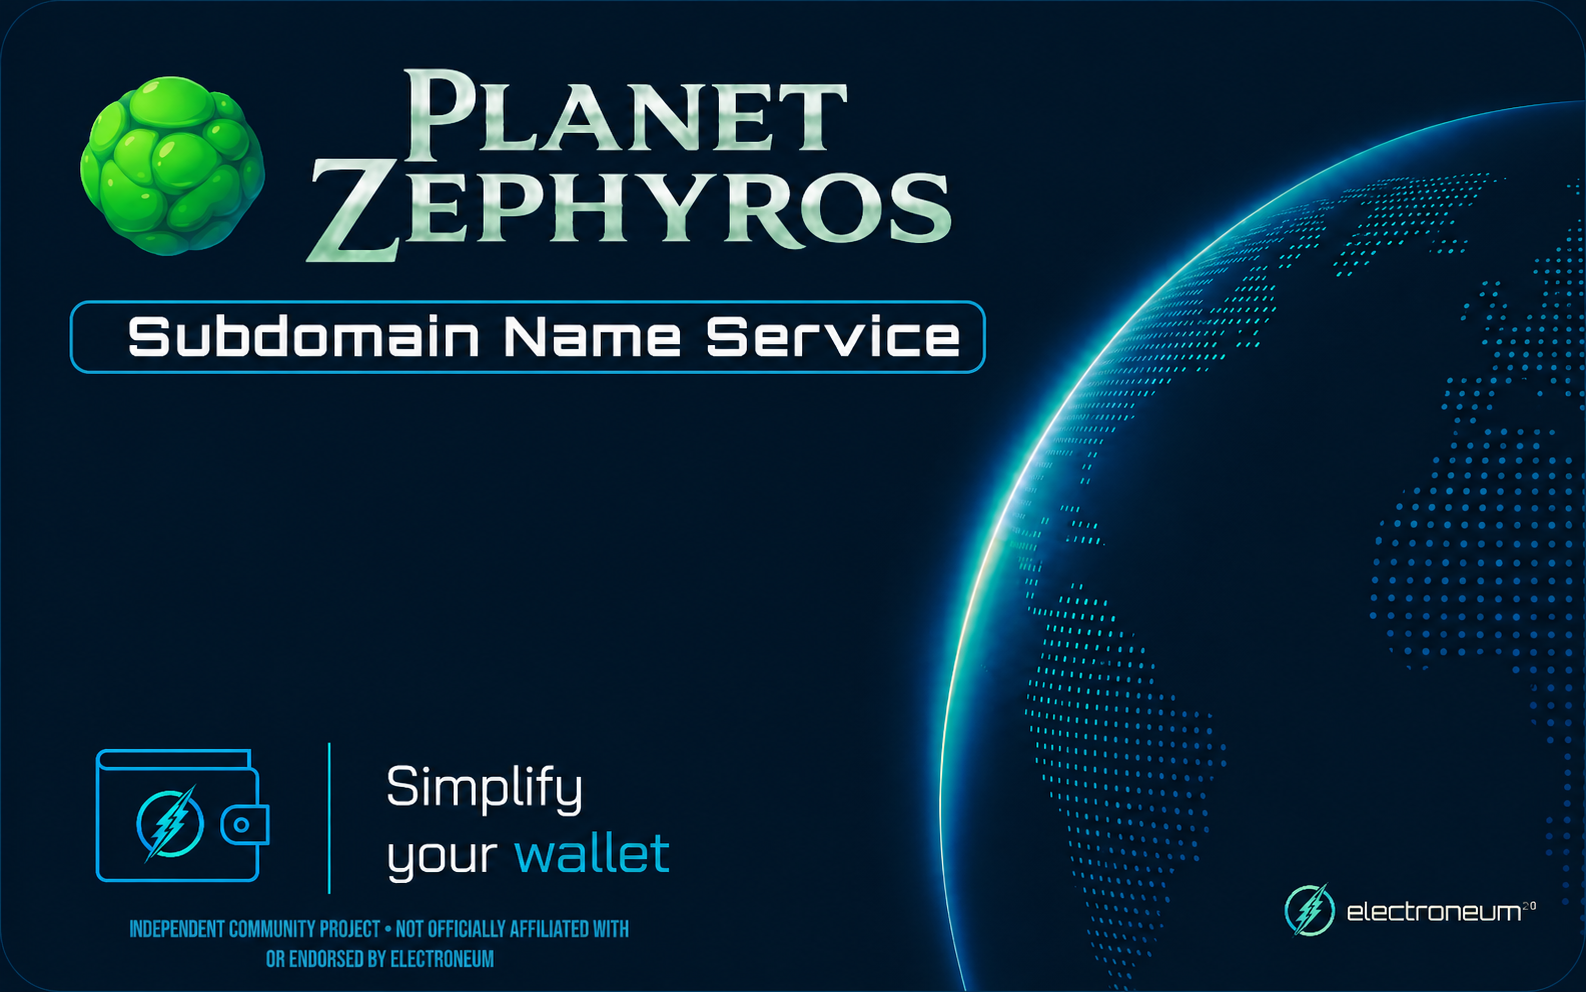
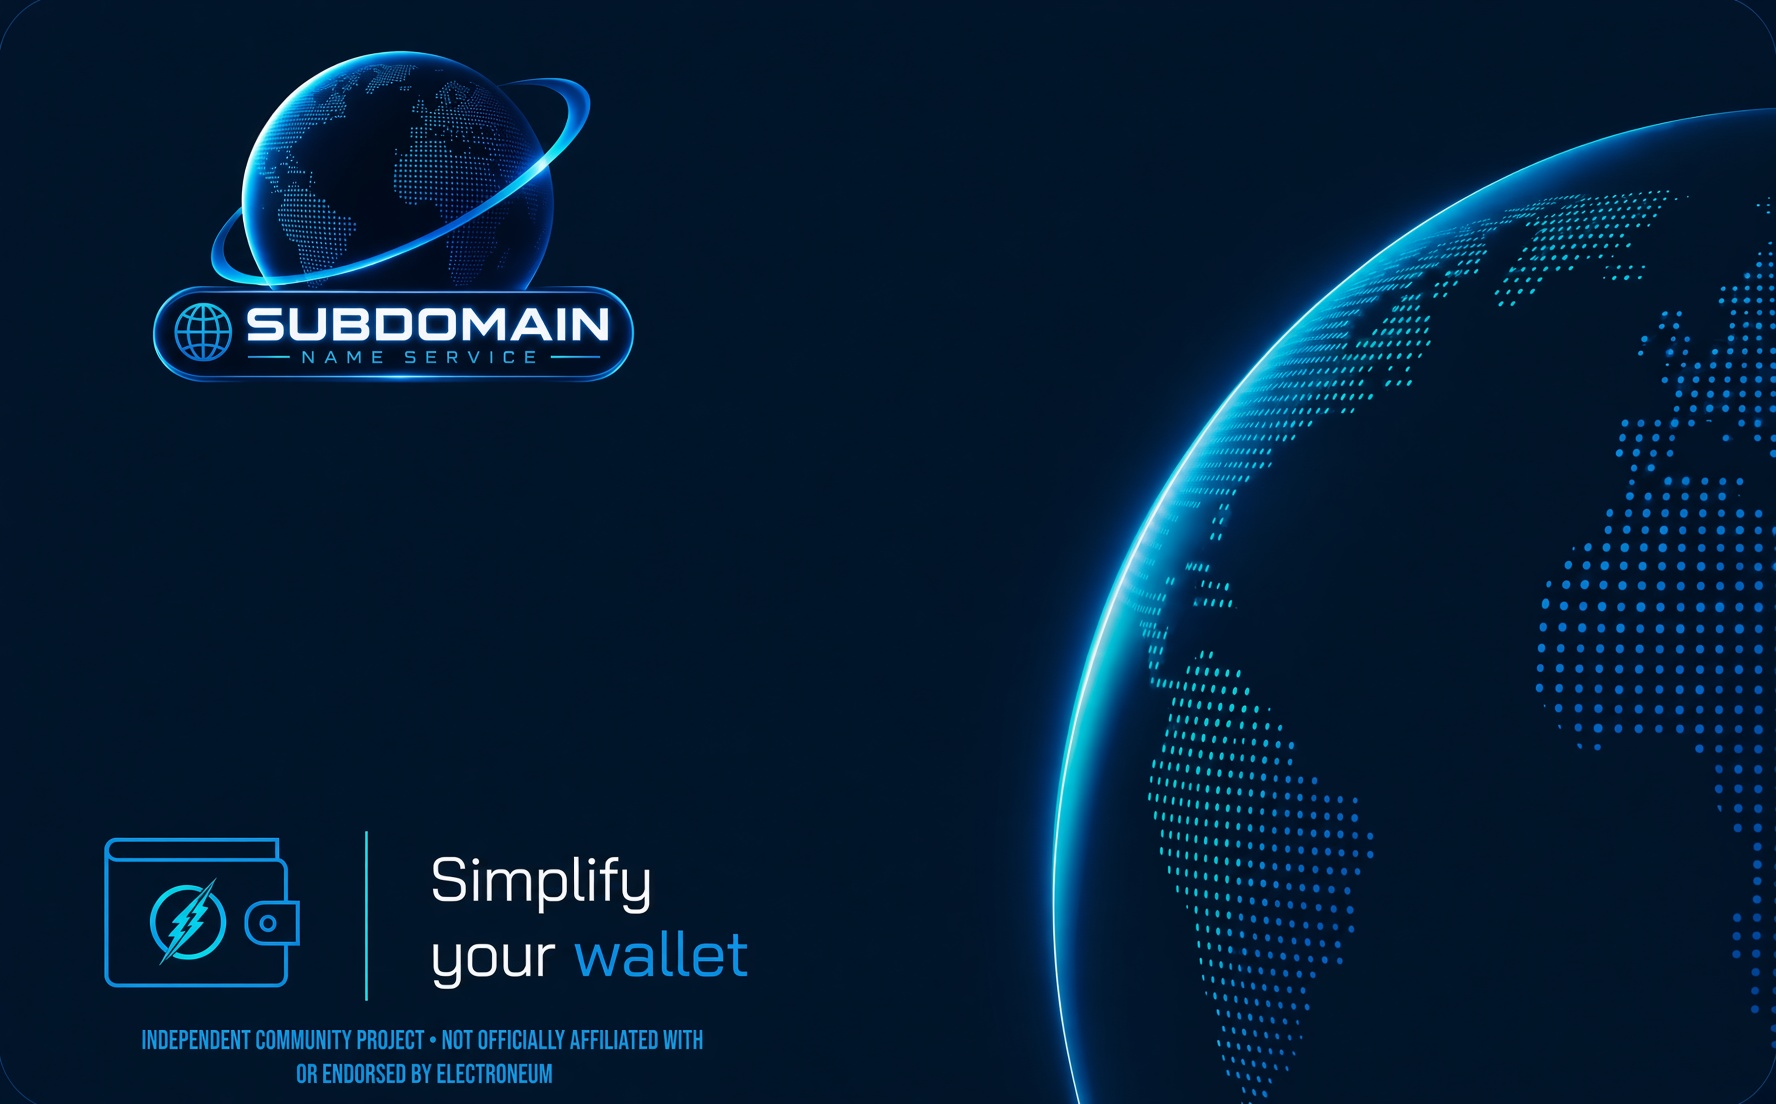
Update NFT templates for rebrand
New ETNNameServiceTemplate.png (subname/"default") and
GoldETNNameServiceTemplate.png (top-level/"namespace") backgrounds —
imageGenerator.js draws directly on top of these for every generated NFT
image, so this is what /api/generate-nft (and backfillNftImages.js) will
render onto going forward.

Existing images in R2 have already been backfilled against these new
templates directly (backend/scripts/backfillNftImages.js --force) —
this commit is just landing the templates themselves so the live
backend generates future registrations/activations with the new look
too, instead of the old one.

Also removes a stray generated test artifact that had been committed
under backend/generated/, and picks up test-image.js's sample
name/token id being pointed at a currently-real name.

Claude-Session: https://claude.ai/code/session_019crdHci1xbz9exSUpvGn66

diff --git a/backend/utils/test-image.js b/backend/utils/test-image.js
@@ -8,8 +8,8 @@ const __dirname = path.dirname(fileURLToPath(import.meta.url));
 async function run() {
   try {
     const { buffer, filename } = await generateNftImage(
-      "etn-villain.planetzephyros.etn",
-      "8607034444057300214419640742371266237737643979798175560172819860381375338986"
+      "planetzephyros.etn",
+      "8607034444057300214419640742371266237737643979798175560172819860381375338987"
     );
 
     const outputDir = path.join(__dirname, "..", "generated");
